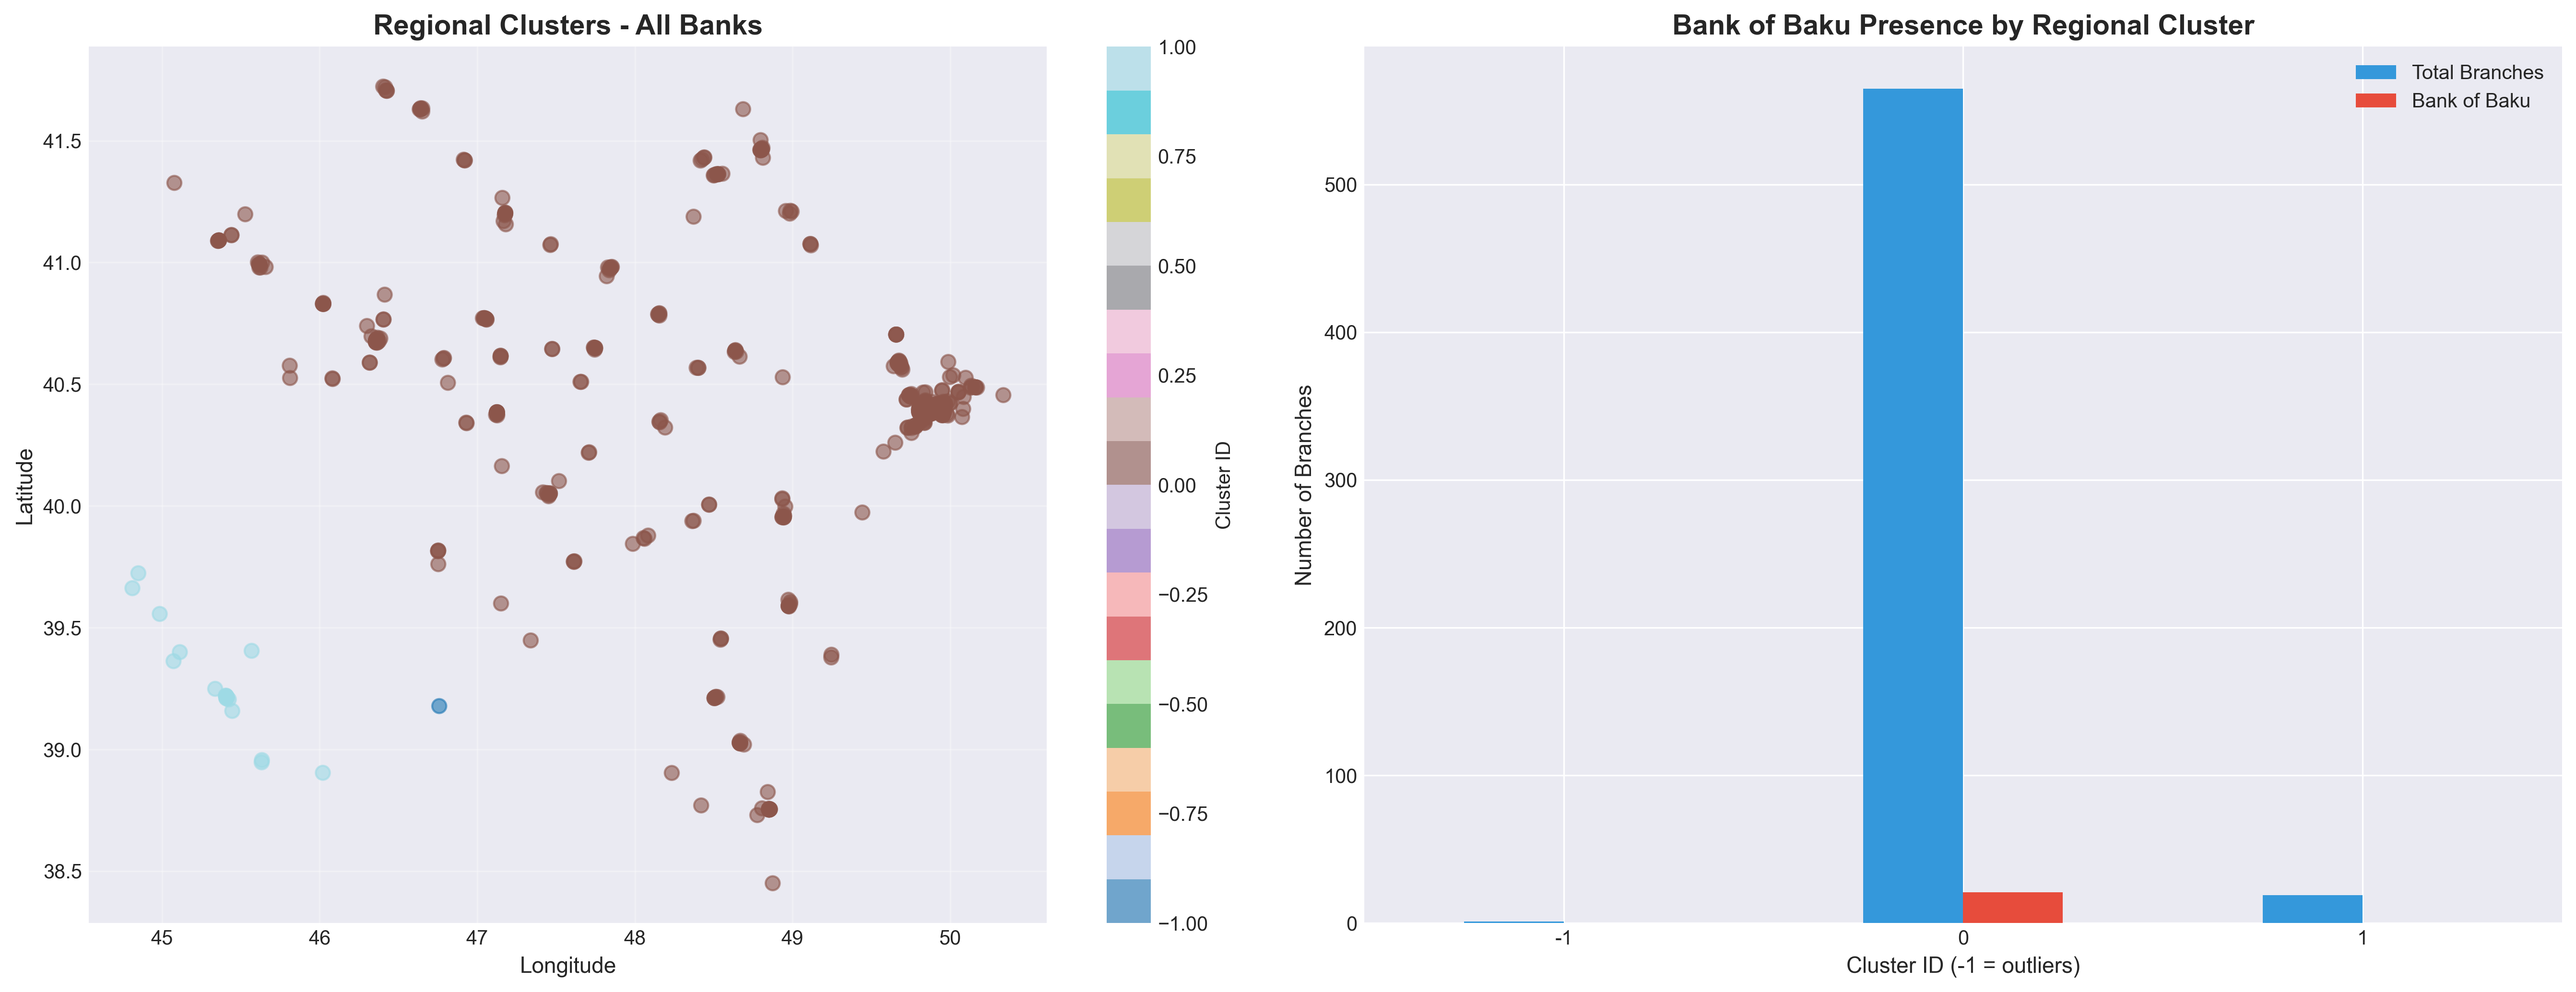
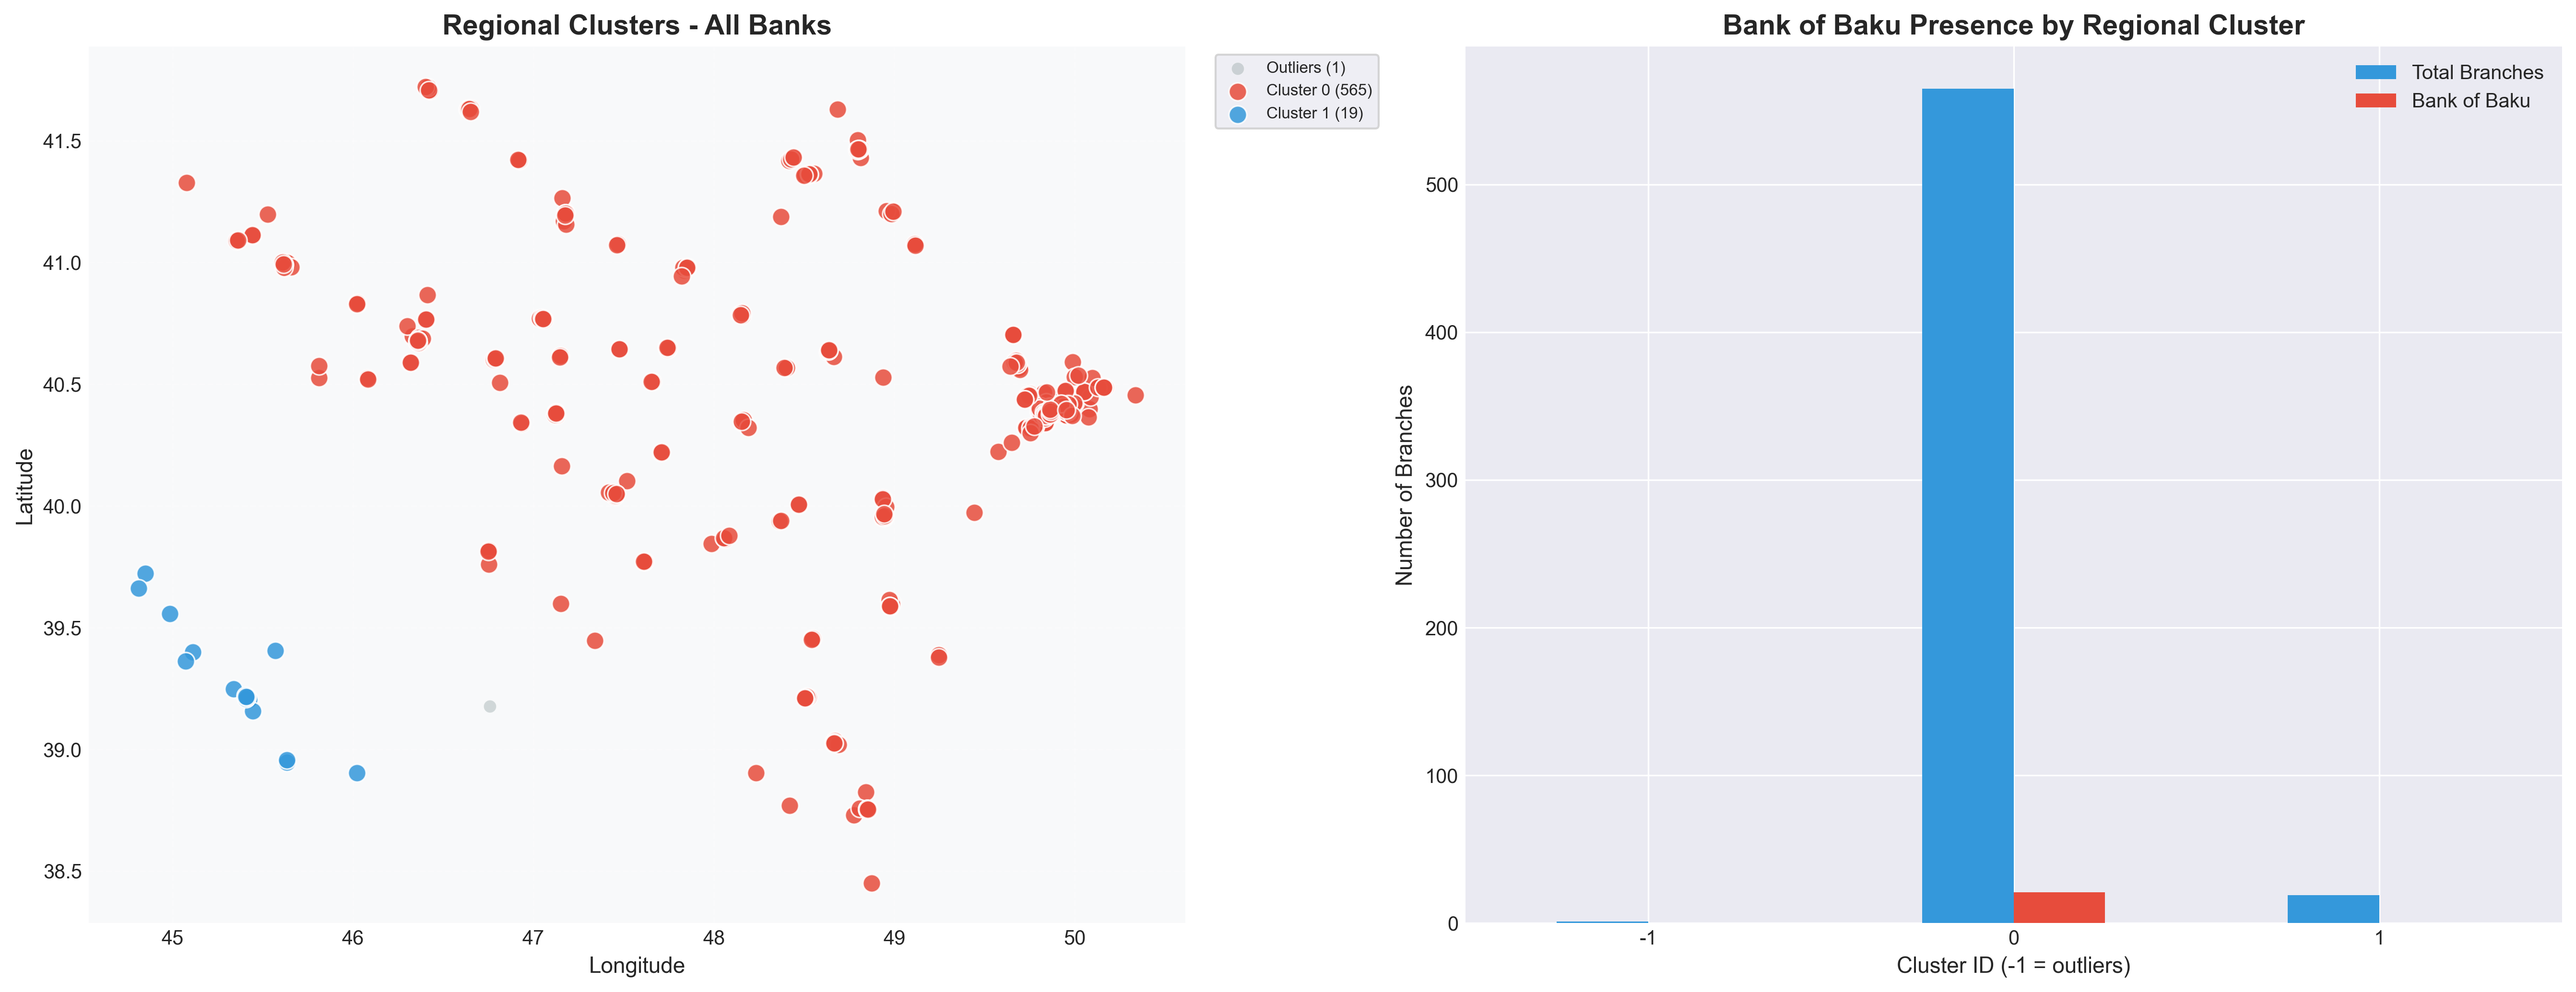
init

diff --git a/scripts/run_analysis.py b/scripts/run_analysis.py
@@ -202,25 +202,72 @@ print()
 # Chart 3: Geographic scatter plot
 # ============================================================================
 print("Generating Chart 3: Geographic Distribution...")
-fig, ax = plt.subplots(figsize=(14, 10))
+fig, ax = plt.subplots(figsize=(18, 12))
 
-# Plot all banks
-for bank in df['bank_name'].unique():
+# Define distinct color palette for better visibility (20 distinct colors)
+distinct_colors = [
+    '#e74c3c',  # Red - Bank of Baku
+    '#3498db',  # Blue
+    '#2ecc71',  # Green
+    '#f39c12',  # Orange
+    '#9b59b6',  # Purple
+    '#1abc9c',  # Turquoise
+    '#e67e22',  # Carrot
+    '#34495e',  # Dark gray
+    '#16a085',  # Green sea
+    '#c0392b',  # Dark red
+    '#8e44ad',  # Wisteria
+    '#27ae60',  # Nephritis
+    '#d35400',  # Pumpkin
+    '#2c3e50',  # Midnight blue
+    '#f1c40f',  # Sunflower
+    '#95a5a6',  # Concrete
+    '#7f8c8d',  # Asbestos
+    '#c39bd3',  # Light purple
+    '#76d7c4',  # Light turquoise
+    '#f8c471',  # Light orange
+]
+
+# Different marker styles for additional distinction
+marker_styles = ['o', 'o', 'o', 'o', 'o', 'v', 'v', 'v', 'v', 'v',
+                 '^', '^', '^', '^', '^', 'D', 'D', 'D', 'D', 'D']
+
+# Sort banks by count (largest first) for better layering
+bank_counts_sorted = df['bank_name'].value_counts()
+
+# Plot all banks with distinct colors and markers
+for idx, bank in enumerate(bank_counts_sorted.index):
     bank_data = df[df['bank_name'] == bank]
+
     if bank == 'Bank of Baku':
+        # Bank of Baku - highlighted prominently
         ax.scatter(bank_data['long'], bank_data['lat'],
-                  s=150, alpha=0.8, label=bank,
-                  edgecolors='black', linewidth=2, marker='s', zorder=5)
+                  s=200, alpha=0.95, label=bank,
+                  color=distinct_colors[0],
+                  edgecolors='black', linewidth=2.5, marker='s', zorder=100)
     else:
+        # Other banks - use distinct colors and varying markers
+        color_idx = idx % len(distinct_colors)
+        marker_idx = idx % len(marker_styles)
+
         ax.scatter(bank_data['long'], bank_data['lat'],
-                  s=50, alpha=0.5, label=bank)
+                  s=70, alpha=0.75, label=f'{bank} ({len(bank_data)})',
+                  color=distinct_colors[color_idx],
+                  marker=marker_styles[marker_idx],
+                  edgecolors='white', linewidth=0.5, zorder=idx)
 
 ax.set_xlabel('Longitude', fontsize=12, fontweight='bold')
 ax.set_ylabel('Latitude', fontsize=12, fontweight='bold')
-ax.set_title('Geographic Distribution of Bank Branches in Azerbaijan\\n(Bank of Baku highlighted in squares)',
+ax.set_title('Geographic Distribution of Bank Branches in Azerbaijan\\n(Bank of Baku highlighted as red squares)',
              fontsize=14, fontweight='bold', pad=20)
-ax.legend(bbox_to_anchor=(1.05, 1), loc='upper left', fontsize=9)
-ax.grid(True, alpha=0.3)
+
+# Improved legend with branch counts
+ax.legend(bbox_to_anchor=(1.02, 1), loc='upper left', fontsize=8,
+          ncol=1, frameon=True, fancybox=True, shadow=True)
+ax.grid(True, alpha=0.3, linestyle='--', linewidth=0.5)
+
+# Set background color for better contrast
+ax.set_facecolor('#f8f9fa')
 
 plt.tight_layout()
 plt.savefig('charts/03_geographic_distribution_all.png', dpi=300, bbox_inches='tight')
@@ -239,25 +286,30 @@ comparison_banks = ['Bank of Baku'] + [b for b in top_3_competitors if b != 'Ban
 fig, axes = plt.subplots(2, 2, figsize=(16, 14))
 axes = axes.flatten()
 
+competitor_colors = ['#e74c3c', '#3498db', '#2ecc71', '#f39c12']
+
 for idx, bank in enumerate(comparison_banks):
     ax = axes[idx]
 
-    # Plot all branches in gray
-    ax.scatter(df['long'], df['lat'], s=20, alpha=0.2, color='gray', label='Other banks')
+    # Plot all branches with light background
+    ax.scatter(df['long'], df['lat'], s=15, alpha=0.15, color='#95a5a6', label='Other banks')
 
     # Highlight this bank
     bank_data = df[df['bank_name'] == bank]
-    color = '#e74c3c' if bank == 'Bank of Baku' else '#3498db'
+    color = competitor_colors[idx]
+    marker = 's' if bank == 'Bank of Baku' else 'o'
+
     ax.scatter(bank_data['long'], bank_data['lat'],
-              s=100, alpha=0.8, color=color, label=bank,
-              edgecolors='black', linewidth=1, zorder=5)
+              s=120, alpha=0.9, color=color, label=bank,
+              marker=marker, edgecolors='black', linewidth=1.5, zorder=5)
 
     ax.set_title(f'{bank} - {len(bank_data)} branches',
                 fontsize=12, fontweight='bold')
     ax.set_xlabel('Longitude', fontsize=10)
     ax.set_ylabel('Latitude', fontsize=10)
-    ax.legend(fontsize=9)
-    ax.grid(True, alpha=0.3)
+    ax.legend(fontsize=9, frameon=True, fancybox=True)
+    ax.grid(True, alpha=0.3, linestyle='--')
+    ax.set_facecolor('#f8f9fa')
 
 plt.suptitle('Geographic Coverage Comparison: Bank of Baku vs Top Competitors',
              fontsize=16, fontweight='bold', y=1.00)
@@ -278,14 +330,38 @@ df['cluster'] = clustering.labels_
 
 fig, (ax1, ax2) = plt.subplots(1, 2, figsize=(18, 7))
 
-# All banks clusters
-scatter1 = ax1.scatter(df['long'], df['lat'], c=df['cluster'],
-                       cmap='tab20', s=50, alpha=0.6)
+# Define distinct colors for clusters
+cluster_colors = ['#95a5a6',  # Gray for outliers (cluster -1)
+                 '#e74c3c', '#3498db', '#2ecc71', '#f39c12', '#9b59b6',
+                 '#1abc9c', '#e67e22', '#34495e', '#16a085', '#c0392b',
+                 '#8e44ad', '#27ae60', '#d35400', '#2c3e50', '#f1c40f',
+                 '#c39bd3', '#76d7c4', '#f8c471', '#ec7063']
+
+# Plot clusters with distinct colors
+unique_clusters = sorted(df['cluster'].unique())
+for cluster_id in unique_clusters:
+    cluster_data = df[df['cluster'] == cluster_id]
+    color_idx = (cluster_id + 1) % len(cluster_colors)
+
+    if cluster_id == -1:
+        # Outliers - smaller and lighter
+        ax1.scatter(cluster_data['long'], cluster_data['lat'],
+                   s=40, alpha=0.4, color=cluster_colors[0],
+                   label=f'Outliers ({len(cluster_data)})',
+                   edgecolors='white', linewidth=0.3, zorder=1)
+    else:
+        # Clustered branches - larger and more visible
+        ax1.scatter(cluster_data['long'], cluster_data['lat'],
+                   s=80, alpha=0.85, color=cluster_colors[color_idx],
+                   label=f'Cluster {cluster_id} ({len(cluster_data)})',
+                   edgecolors='white', linewidth=0.8, zorder=2)
+
 ax1.set_title('Regional Clusters - All Banks', fontsize=14, fontweight='bold')
 ax1.set_xlabel('Longitude', fontsize=11)
 ax1.set_ylabel('Latitude', fontsize=11)
-ax1.grid(True, alpha=0.3)
-plt.colorbar(scatter1, ax=ax1, label='Cluster ID')
+ax1.grid(True, alpha=0.3, linestyle='--')
+ax1.legend(bbox_to_anchor=(1.02, 1), loc='upper left', fontsize=8, ncol=1, frameon=True, fancybox=True)
+ax1.set_facecolor('#f8f9fa')
 
 # Bank of Baku presence in clusters
 bob_clusters = df[df['bank_name'] == 'Bank of Baku']['cluster'].value_counts().sort_index()
@@ -320,22 +396,48 @@ baku_df = df[(df['lat'] >= 40.3) & (df['lat'] <= 40.5) &
 
 fig, (ax1, ax2) = plt.subplots(1, 2, figsize=(18, 7))
 
+# Use same distinct colors as Chart 3
+baku_distinct_colors = [
+    '#e74c3c', '#3498db', '#2ecc71', '#f39c12', '#9b59b6',
+    '#1abc9c', '#e67e22', '#34495e', '#16a085', '#c0392b',
+    '#8e44ad', '#27ae60', '#d35400', '#2c3e50', '#f1c40f',
+    '#95a5a6', '#7f8c8d', '#c39bd3', '#76d7c4', '#f8c471'
+]
+
+# Different marker styles for distinction
+baku_marker_styles = ['o', 'o', 'o', 'o', 'v', 'v', 'v', 'v',
+                      '^', '^', '^', '^', 'D', 'D', 'D', 'D',
+                      's', 's', 's', 's']
+
+# Sort banks by count in Baku for better layering
+baku_bank_counts = baku_df['bank_name'].value_counts()
+
 # Baku branch distribution
-for bank in baku_df['bank_name'].unique():
+for idx, bank in enumerate(baku_bank_counts.index):
     bank_data = baku_df[baku_df['bank_name'] == bank]
+    color_idx = idx % len(baku_distinct_colors)
+    marker_idx = idx % len(baku_marker_styles)
+
     if bank == 'Bank of Baku':
         ax1.scatter(bank_data['long'], bank_data['lat'],
-                   s=150, alpha=0.8, label=bank,
-                   edgecolors='black', linewidth=2, marker='s', zorder=5)
+                   s=180, alpha=0.95, label=f'{bank} ({len(bank_data)})',
+                   color=baku_distinct_colors[0],
+                   edgecolors='black', linewidth=2.5, marker='s', zorder=100)
     else:
         ax1.scatter(bank_data['long'], bank_data['lat'],
-                   s=50, alpha=0.5, label=bank)
+                   s=80, alpha=0.8, label=f'{bank} ({len(bank_data)})',
+                   color=baku_distinct_colors[color_idx],
+                   marker=baku_marker_styles[marker_idx],
+                   edgecolors='white', linewidth=0.8, zorder=idx)
 
 ax1.set_xlabel('Longitude', fontsize=11)
 ax1.set_ylabel('Latitude', fontsize=11)
-ax1.set_title('Baku City - Branch Distribution', fontsize=14, fontweight='bold')
-ax1.legend(bbox_to_anchor=(1.05, 1), loc='upper left', fontsize=8)
-ax1.grid(True, alpha=0.3)
+ax1.set_title('Baku City - Branch Distribution\n(Bank of Baku highlighted as red squares)',
+             fontsize=14, fontweight='bold')
+ax1.legend(bbox_to_anchor=(1.05, 1), loc='upper left', fontsize=8,
+          frameon=True, fancybox=True, shadow=True)
+ax1.grid(True, alpha=0.3, linestyle='--')
+ax1.set_facecolor('#f8f9fa')
 
 # Baku market share
 baku_counts = baku_df['bank_name'].value_counts()
@@ -409,12 +511,13 @@ fig, (ax1, ax2) = plt.subplots(1, 2, figsize=(18, 7))
 # Density for all banks
 xy_all = np.vstack([df['long'], df['lat']])
 z_all = gaussian_kde(xy_all)(xy_all)
-scatter1 = ax1.scatter(df['long'], df['lat'], c=z_all, s=50, cmap='YlOrRd', alpha=0.6)
+scatter1 = ax1.scatter(df['long'], df['lat'], c=z_all, s=65, cmap='YlOrRd', alpha=0.7, edgecolors='white', linewidth=0.5)
 ax1.set_title('Branch Density Heatmap - All Banks', fontsize=14, fontweight='bold')
 ax1.set_xlabel('Longitude', fontsize=11)
 ax1.set_ylabel('Latitude', fontsize=11)
 plt.colorbar(scatter1, ax=ax1, label='Density')
-ax1.grid(True, alpha=0.3)
+ax1.grid(True, alpha=0.3, linestyle='--')
+ax1.set_facecolor('#f8f9fa')
 
 # Bank of Baku branches overlaid on competition density
 competitors_df = df[df['bank_name'] != 'Bank of Baku']
@@ -422,19 +525,20 @@ xy_comp = np.vstack([competitors_df['long'], competitors_df['lat']])
 z_comp = gaussian_kde(xy_comp)(xy_comp)
 
 scatter2 = ax2.scatter(competitors_df['long'], competitors_df['lat'],
-                       c=z_comp, s=30, cmap='Blues', alpha=0.4)
+                       c=z_comp, s=40, cmap='Blues', alpha=0.5, edgecolors='white', linewidth=0.3)
 bob_df = df[df['bank_name'] == 'Bank of Baku']
 ax2.scatter(bob_df['long'], bob_df['lat'],
-           s=200, alpha=0.9, color='#e74c3c',
-           edgecolors='black', linewidth=2, marker='*',
-           label='Bank of Baku', zorder=5)
+           s=280, alpha=0.95, color='#e74c3c',
+           edgecolors='black', linewidth=2.5, marker='*',
+           label='Bank of Baku', zorder=10)
 
 ax2.set_title('Bank of Baku Locations vs Competitor Density', fontsize=14, fontweight='bold')
 ax2.set_xlabel('Longitude', fontsize=11)
 ax2.set_ylabel('Latitude', fontsize=11)
 plt.colorbar(scatter2, ax=ax2, label='Competitor Density')
-ax2.legend(fontsize=11)
-ax2.grid(True, alpha=0.3)
+ax2.legend(fontsize=11, frameon=True, fancybox=True, shadow=True)
+ax2.grid(True, alpha=0.3, linestyle='--')
+ax2.set_facecolor('#f8f9fa')
 
 plt.tight_layout()
 plt.savefig('charts/08_competitive_density.png', dpi=300, bbox_inches='tight')
@@ -708,16 +812,18 @@ opportunity_scores = opportunity_scores.reshape(grid_resolution, grid_resolution
 fig, (ax1, ax2) = plt.subplots(1, 2, figsize=(18, 7))
 
 # Heatmap of opportunity scores
-im = ax1.contourf(long_grid, lat_grid, opportunity_scores, levels=20, cmap='YlOrRd', alpha=0.7)
-ax1.scatter(bob_coords[:, 1], bob_coords[:, 0], s=100, color='blue',
-           marker='s', edgecolors='black', linewidth=2, label='Bank of Baku', zorder=5)
-ax1.scatter(comp_coords[:, 1], comp_coords[:, 0], s=10, color='gray',
-           alpha=0.3, label='Competitors')
+im = ax1.contourf(long_grid, lat_grid, opportunity_scores, levels=20, cmap='YlOrRd', alpha=0.8)
+ax1.scatter(bob_coords[:, 1], bob_coords[:, 0], s=140, color='#e74c3c',
+           marker='s', edgecolors='black', linewidth=2.5, label='Bank of Baku', zorder=5)
+ax1.scatter(comp_coords[:, 1], comp_coords[:, 0], s=15, color='gray',
+           alpha=0.4, label='Competitors', edgecolors='white', linewidth=0.2)
 ax1.set_xlabel('Longitude', fontsize=11)
 ax1.set_ylabel('Latitude', fontsize=11)
-ax1.set_title('Expansion Opportunity Heatmap for Bank of Baku\\n(Warmer colors = higher opportunity)',
+ax1.set_title('Expansion Opportunity Heatmap for Bank of Baku\n(Warmer colors = higher opportunity)',
              fontsize=13, fontweight='bold')
-ax1.legend(fontsize=10)
+ax1.legend(fontsize=10, frameon=True, fancybox=True)
+ax1.grid(True, alpha=0.3, linestyle='--')
+ax1.set_facecolor('#f8f9fa')
 plt.colorbar(im, ax=ax1, label='Opportunity Score')
 
 # Top opportunity locations
@@ -726,23 +832,25 @@ flat_indices = opportunity_scores.flatten().argsort()[-top_n:][::-1]
 top_opportunities = grid_points[flat_indices]
 
 # Plot top opportunities
-ax2.scatter(df['long'], df['lat'], s=20, alpha=0.2, color='gray', label='Existing branches')
-ax2.scatter(bob_coords[:, 1], bob_coords[:, 0], s=100, color='#e74c3c',
-           marker='s', edgecolors='black', linewidth=2, label='Bank of Baku', zorder=5)
+ax2.scatter(df['long'], df['lat'], s=18, alpha=0.2, color='#95a5a6', label='Existing branches')
+ax2.scatter(bob_coords[:, 1], bob_coords[:, 0], s=140, color='#e74c3c',
+           marker='s', edgecolors='black', linewidth=2.5, label='Bank of Baku', zorder=5)
 ax2.scatter(top_opportunities[:, 1], top_opportunities[:, 0],
-           s=200, color='#f39c12', marker='*',
-           edgecolors='black', linewidth=1.5, label='Top expansion opportunities', zorder=6)
+           s=320, color='#f39c12', marker='*',
+           edgecolors='black', linewidth=2, label='Top expansion opportunities', zorder=10, alpha=0.95)
 
 # Number the top 5
 for i in range(min(5, len(top_opportunities))):
     ax2.annotate(str(i+1), (top_opportunities[i, 1], top_opportunities[i, 0]),
-                fontsize=10, fontweight='bold', ha='center', va='center')
+                fontsize=11, fontweight='bold', ha='center', va='center', color='white',
+                bbox=dict(boxstyle='circle', facecolor='#2c3e50', edgecolor='white', linewidth=2))
 
 ax2.set_xlabel('Longitude', fontsize=11)
 ax2.set_ylabel('Latitude', fontsize=11)
 ax2.set_title(f'Top {top_n} Recommended Expansion Locations', fontsize=13, fontweight='bold')
-ax2.legend(fontsize=10)
-ax2.grid(True, alpha=0.3)
+ax2.legend(fontsize=10, frameon=True, fancybox=True, shadow=True)
+ax2.grid(True, alpha=0.3, linestyle='--')
+ax2.set_facecolor('#f8f9fa')
 
 plt.tight_layout()
 plt.savefig('charts/13_growth_opportunity_score.png', dpi=300, bbox_inches='tight')
